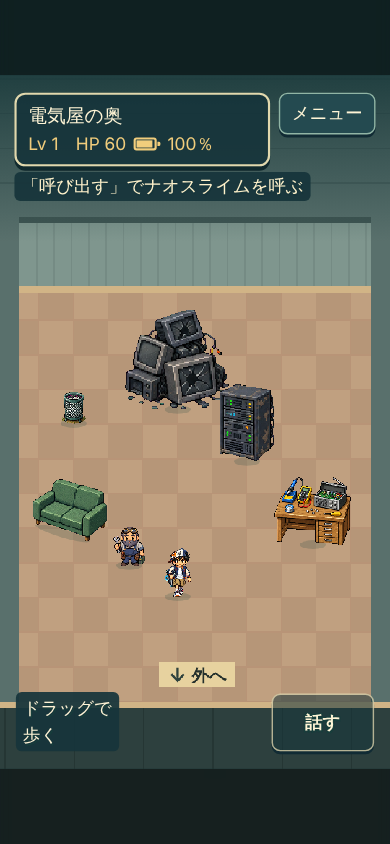
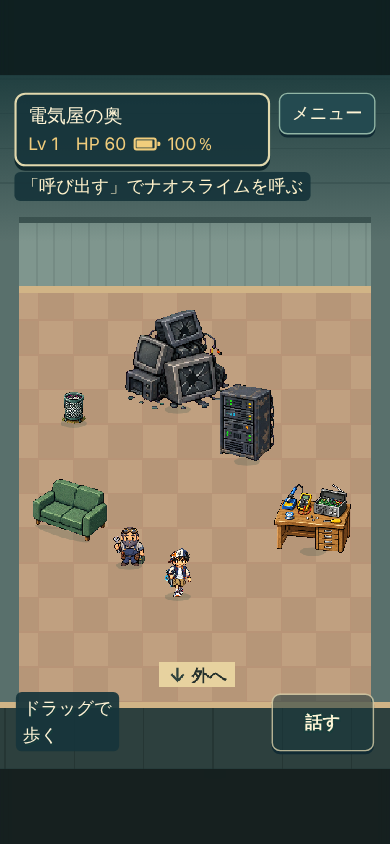
R677: 電気屋の奥の机の位置とテストを直し、ROADMAP を完了にした

Changed region(s): [[0.7077, 0.5545, 0.9231, 0.6777]]

diff --git a/autodev/ROADMAP.md b/autodev/ROADMAP.md
@@ -683,7 +683,7 @@
 - [x] R674 | 塔の階で目標の帯の地が暗い床に溶けて文字だけ浮いていたので、紺の地と青い縁を付けた | tools/smoke_v5.cjs で全章を通し、スクショを確認役に見せて気になる所を挙げさせ、一番大きい1つを直す。直した所の前と後のスクショがある
 - [x] R675 | 全章のスクショを確認役に見せ、挙がった5つを確かめたが、どれも仕様どおりだったので直さなかった（ネオンの砂嵐の帯は R168 の一瞬の演出、ボス前の浮かぶ文字は R16 の演出、BUG KING は STORY_V4 の名前、ドラッグの札は R502、上の札は R532 で決めた高さ） | tools/smoke_v5.cjs で全章を通し、スクショを確認役に見せて気になる所を挙げさせ、一番大きい1つを直す。直した所の前と後のスクショがある
 - [x] R676 | 全章のスクショを確認役に見せ、一番大きい「電気屋の奥だけ着いた時に奥の壁が見えず床が浮いて見える」を次の件に分けた（部屋の高さ17を14にすると10を超えるテストの位置が変わり、1回に収まらないため） | tools/smoke_v5.cjs で全章を通し、スクショを確認役に見せて気になる所を挙げさせ、一番大きい1つを直す。直した所の前と後のスクショがある
-- [ ] R677 | 電気屋の奥を他の部屋と同じ高さ14にし、着いた時に奥の壁が見えるようにする | v5/data/ch1.js の maps.electric の h を17から14にし、物・入口・出口・spawn と、ヒダマリの electric の arrival の y を3ずつ上げる。tools/test_v5.cjs の電気屋の位置を使うテスト（ボスの前 7.2・サーバー 9.4・入口 14 など）を新しい位置に合わせる（弱めない）。R538 の「高い部屋は上を覆う」テストは、高い部屋が無くなるなら仕組みだけを残して確かめる形にする。着いた時の前と後のスクショがある
+- [x] R677 | 電気屋の奥を他の部屋と同じ高さ14にし、着いた時に奥の壁が見えるようにする | v5/data/ch1.js の maps.electric の h を17から14にし、物・入口・出口・spawn と、ヒダマリの electric の arrival の y を3ずつ上げる。tools/test_v5.cjs の電気屋の位置を使うテスト（ボスの前 7.2・サーバー 9.4・入口 14 など）を新しい位置に合わせる（弱めない）。R538 の「高い部屋は上を覆う」テストは、高い部屋が無くなるなら仕組みだけを残して確かめる形にする。着いた時の前と後のスクショがある
 
 ## くりかえし
 

diff --git a/autodev/last_run.md b/autodev/last_run.md
@@ -1,7 +1,7 @@
-- 全章のスクショを撮り、確認役に気になる所を5つ挙げさせた
-- 一番大きいのは、電気屋の奥だけ着いた時に奥の壁が見えず床が浮いて見える所
-- 部屋の高さを他の部屋と同じ14にすると10を超えるテストが動くので、R677 に分けた
-次: R677 で電気屋の奥の高さを14にし、テストの位置を合わせる
-時刻: 2026-11-22 02:30
+- 電気屋の奥の高さを17から14にし、着いた時に奥の壁が見えるようにした
+- テレビのやまとサーバーは壁にかからないよう少しだけ上げ、机は2.5上げた
+- 高い部屋のテストは17行の写しの部屋で仕組みを確かめる形にした
+次: ROADMAP に [ ] が無いので、くりかえしの型で遊んで気になる所を直す
+時刻: 2026-11-22 03:39
 迷った点: 鍵の枝 claude/ryw-lock への push はルーチンの決まりで止められたので、鍵なしで進めた
-残りの4つ（塔の階が同じ絵で見分けにくい・ミナモの2枚の看板・ボス戦のノーツの列に札が無い・ヒダマリの話すボタン）は今回は直していない
+確認役の指摘: 目当ての帯が2行になり上の帯が下がると、自分の部屋と同じく部屋が少し動く。今回は直していない
